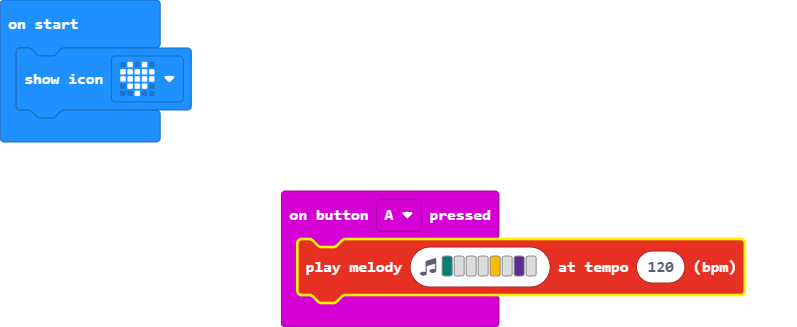
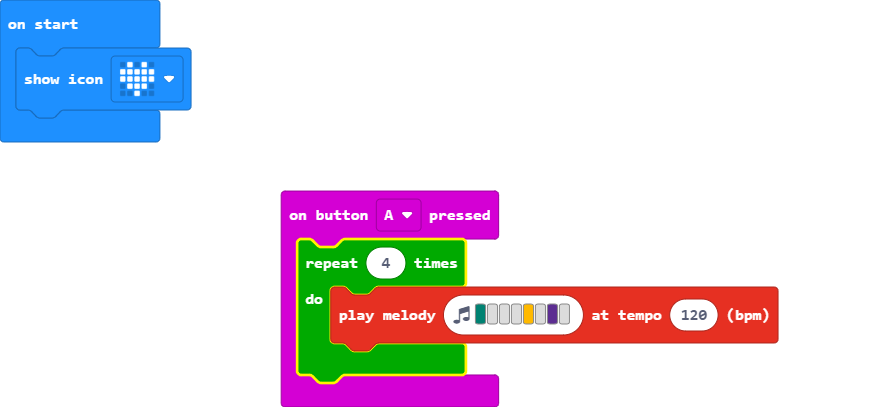
repeat

Changed region(s): [[0.3011, 0.4587, 0.9636, 1.0], [0.0, 0.0, 0.2409, 0.4587], [0.0, 0.0306, 0.1205, 0.0917]]

diff --git a/main.ts b/main.ts
@@ -1,4 +1,6 @@
 input.onButtonPressed(Button.A, function () {
-    music.playMelody("F - - - A - D - ", 120)
+    for (let index = 0; index < 4; index++) {
+        music.playMelody("F - - - A - D - ", 120)
+    }
 })
 basic.showIcon(IconNames.Heart)
